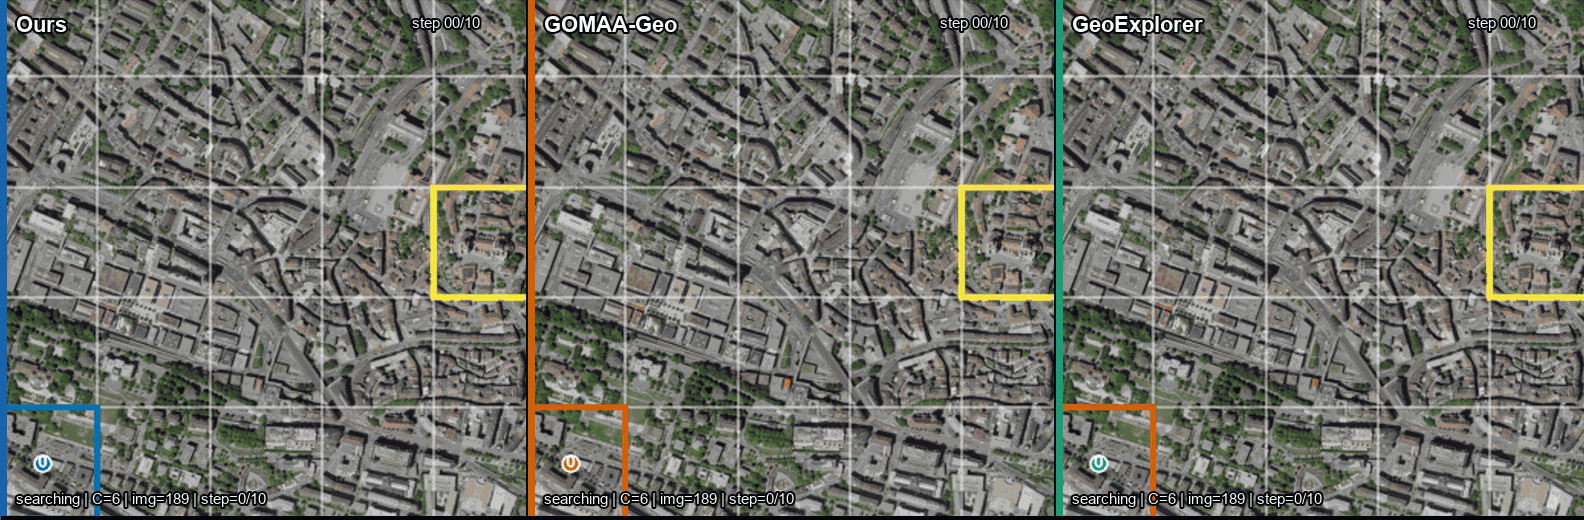
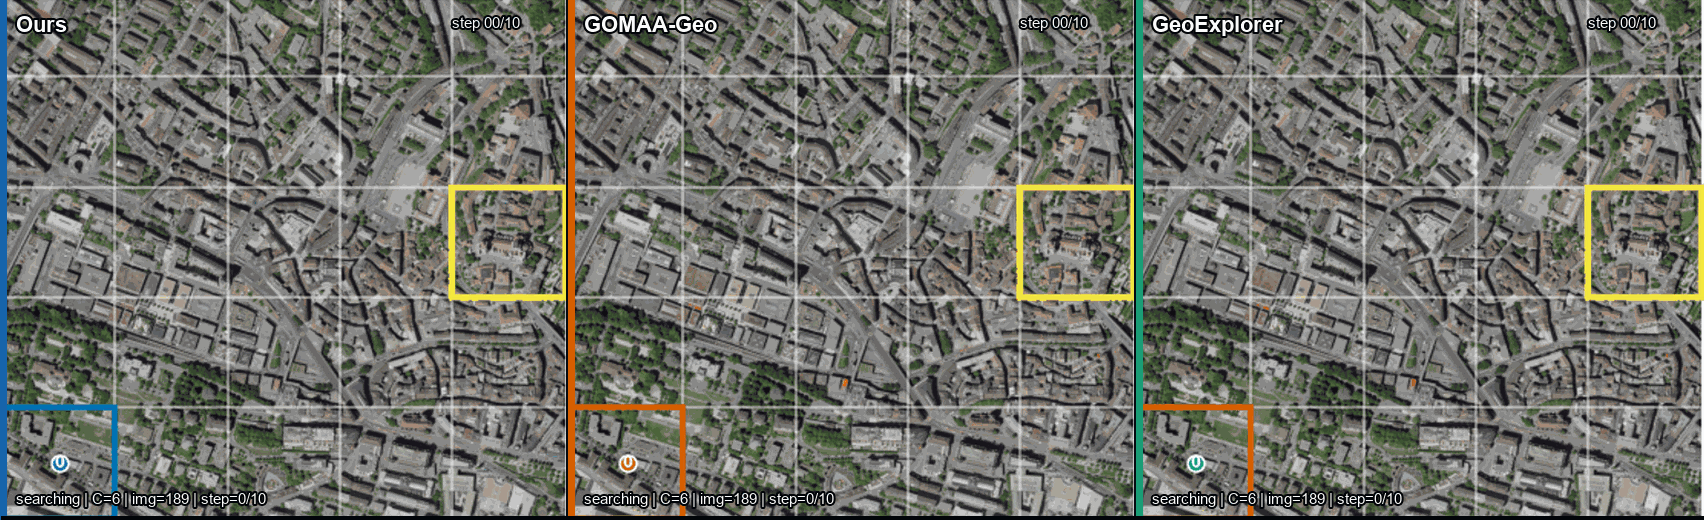
Fix trajectory crop aspect in showcase GIFs

diff --git a/code/tools/build_showcase_experience.py b/code/tools/build_showcase_experience.py
@@ -223,7 +223,7 @@ def load_gif_frames(base: str, suffix: str) -> tuple[list[Image.Image], int]:
 def crop_map_frame(frame: Image.Image) -> Image.Image:
     # The source GIF includes a white title band and border.  Cropping keeps the
     # meaningful aerial evidence and lets the new layout own the labels.
-    return frame.crop((102, 112, 608, 582))
+    return frame.crop((100, 112, 613, 582))
 
 
 def first_last_frames(base: str) -> dict[str, Image.Image]:
@@ -514,8 +514,8 @@ def build_trajectory_storyboard(base: str = "three_method_hardcase__img189_d6_s2
     draw = ImageDraw.Draw(canvas)
     draw.text((88, 58), "One hard case, three behaviors", font=F["h1"], fill=WHITE)
     draw.text((92, 126), "Same start, same target, same budget.  Labels stay inside the imagery; no cards, no outer frame.", font=F["body"], fill="#C8D6E4")
-    panel_w, panel_h = 730, 685
-    start_x, y0 = 105, 235
+    panel_w, panel_h = 710, 650
+    start_x, y0 = 87, 235
     for j, (suffix, label, color, outcome) in enumerate(METHODS):
         x = start_x + j * panel_w
         panel = fit_cover(frames[f"{suffix}_last"], (panel_w, panel_h)).convert("RGBA")
@@ -542,7 +542,7 @@ def theater_frame(
     loaded: list[list[Image.Image]],
     title: str,
 ) -> Image.Image:
-    panel_w, panel_h = 528, 520
+    panel_w, panel_h = 568, 520
     gutter = 0
     canvas = Image.new("RGBA", (panel_w * 3 + gutter * 2, panel_h), "#07101D")
     draw = ImageDraw.Draw(canvas)

diff --git a/code/tools/build_polished_showcase.py b/code/tools/build_polished_showcase.py
@@ -696,7 +696,7 @@ def _fit_cover(im: Image.Image, size: tuple[int, int]) -> Image.Image:
 def _crop_map_frame(frame: Image.Image) -> Image.Image:
     # Source GIFs include a white title band and figure border.  The showcase
     # triptych should compare paths directly, so keep only the map evidence.
-    return frame.crop((102, 112, 608, 582))
+    return frame.crop((100, 112, 613, 582))
 
 
 def _draw_shadow_text(
@@ -738,7 +738,7 @@ def build_triptych_gifs() -> None:
             loaded.append(frames)
             durations.append(duration)
         n = max(len(frames) for frames in loaded)
-        panel_w, panel_h = 528, 520
+        panel_w, panel_h = 568, 520
         canvas_size = (panel_w * 3, panel_h)
         duration = int(np.median(durations))
         frames_out: list[Image.Image] = []
